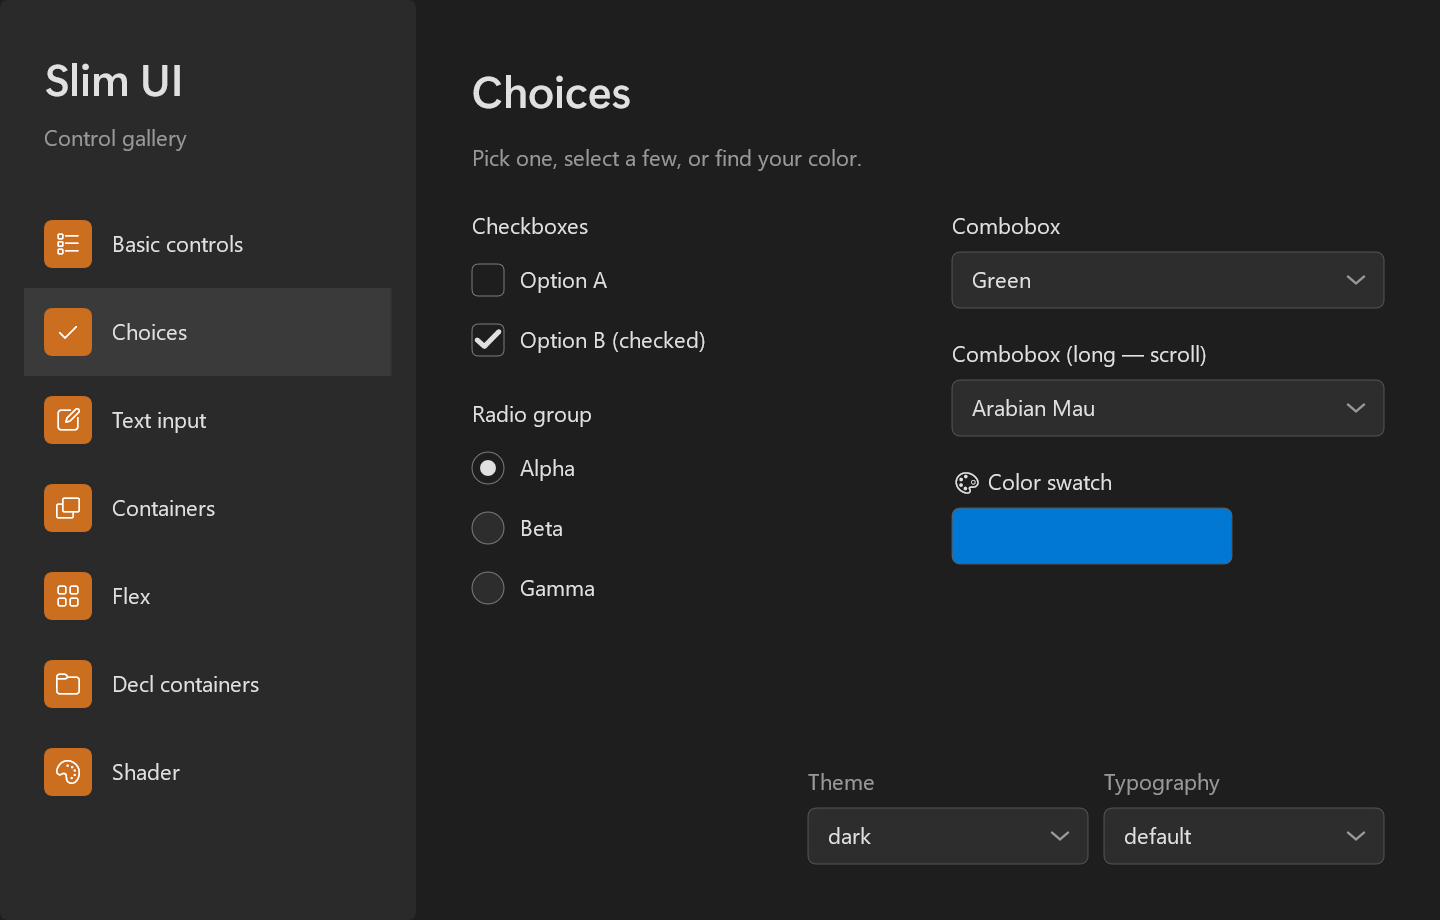
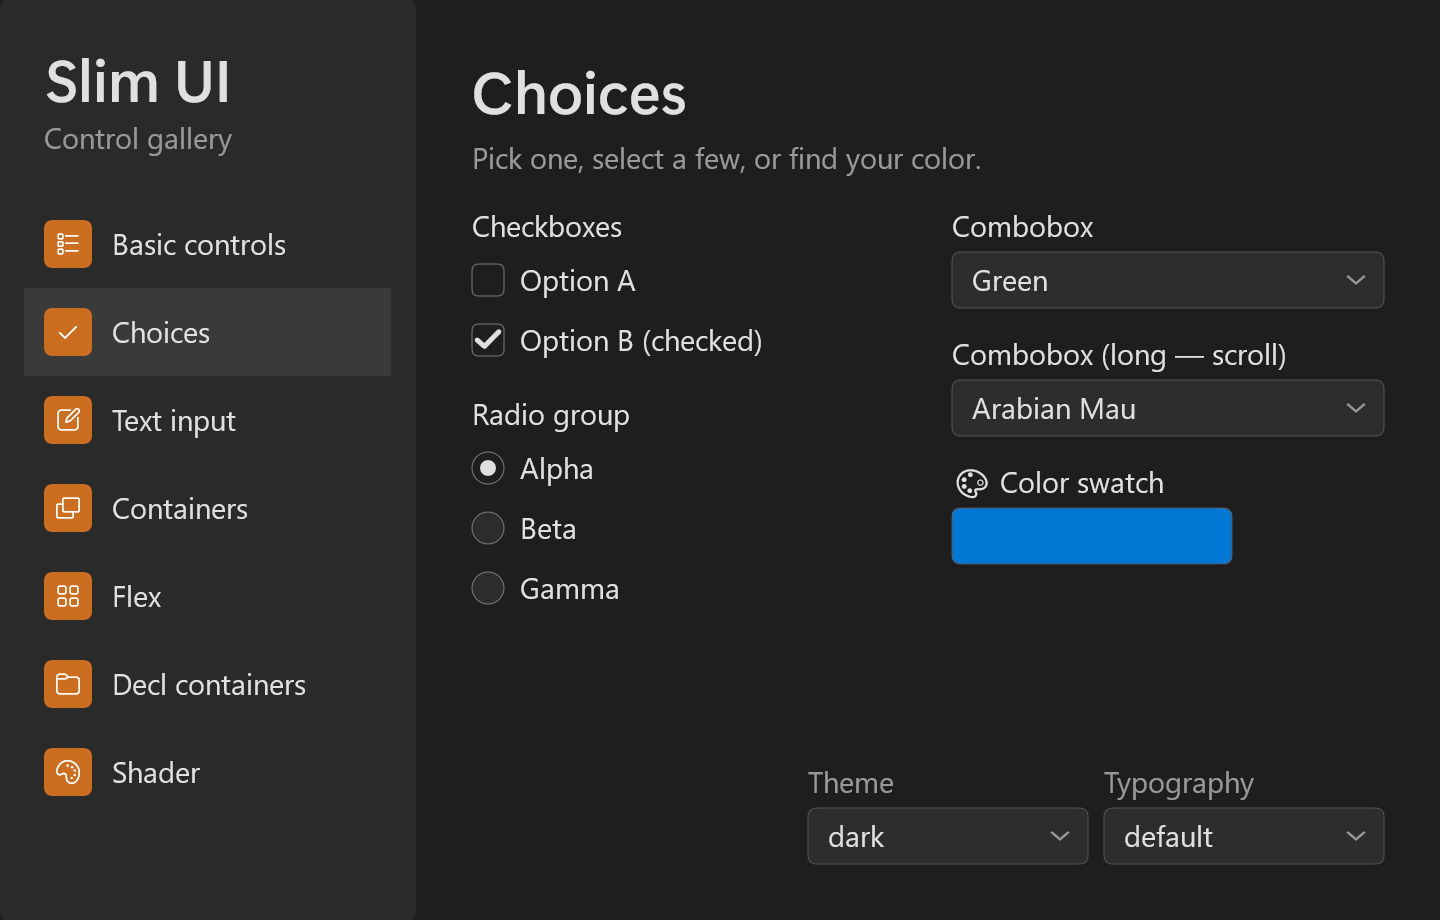
docs: better screenshots

diff --git a/README.md b/README.md
@@ -14,13 +14,6 @@
   <a href="dotnet/README.md">C# / .NET</a>
 </p>
 
-<picture>
-  <source media="(prefers-color-scheme: dark)" srcset="docs/demo-dark.png">
-  <img src="docs/demo-light.png" width="720" alt="The demo app, showing checkboxes, radio buttons, drop-down lists and a side menu">
-</picture>
-
-<p align="center"><sub>The Slim UI demo. Light and dark themes are built in.</sub></p>
-
 ## Why Slim UI?
 
 - **Very small apps.** The [label-and-button example](examples/tiny.c) builds to about 61 KB with unused controls and the C runtime removed.
@@ -33,6 +26,13 @@
 - **Sharp on every display.** DirectWrite fits text to the pixel grid. DPI-aware layout and monitor-scale helpers keep the UI sized for the display.
 - **Easy to add.** Drop the headers into a C or C++ project. The [C# / .NET wrapper](dotnet/README.md) handles window setup and events for you.
 - **Keyboard and screen reader support.** Tab navigation, focus rings, Windows UI Automation, and light and dark themes are built in. [Accessibility coverage](docs/reference.md#accessibility-uia) varies by control.
+
+<picture>
+  <source media="(prefers-color-scheme: dark)" srcset="docs/demo-dark.png">
+  <img src="docs/demo-light.png" width="720" alt="The demo app, showing checkboxes, radio buttons, drop-down lists and a side menu">
+</picture>
+
+<p align="center"><sub>The Slim UI demo. Light and dark themes are built in.</sub></p>
 
 ## Try the demo
 
@@ -213,8 +213,8 @@ See the [API reference](docs/reference.md) for control options, layout and custo
 The same text field can keep its normal editing behavior and gain a glowing border. A custom paint callback changes how it draws. The demo pairs that effect with an animated night sky behind the logo.
 
 <picture>
-  <source media="(prefers-color-scheme: dark)" srcset="docs/shader-dark.png">
-  <img src="docs/shader-light.png" width="486" alt="The demo's Shader page: the logo on a slow night sky with warm light running along its swoosh, and a text field with color flowing around its border">
+  <source media="(prefers-color-scheme: dark)" srcset="docs/shader-dark.gif">
+  <img src="docs/shader-light.gif" width="486" alt="The demo's Shader page in motion: the logo on a slow night sky with warm light running along its swoosh, and a text field with color flowing around its border">
 </picture>
 
 Adapt the [night sky](demo/shader_dusk.hlsl) or [glow](demo/shader_glow.hlsl) shader, starting with `PaintWithShader` in [`demo/main.cpp`](demo/main.cpp). The demo's [Direct2D effect](demo/shader_effect.cpp) supplies the shader integration.
